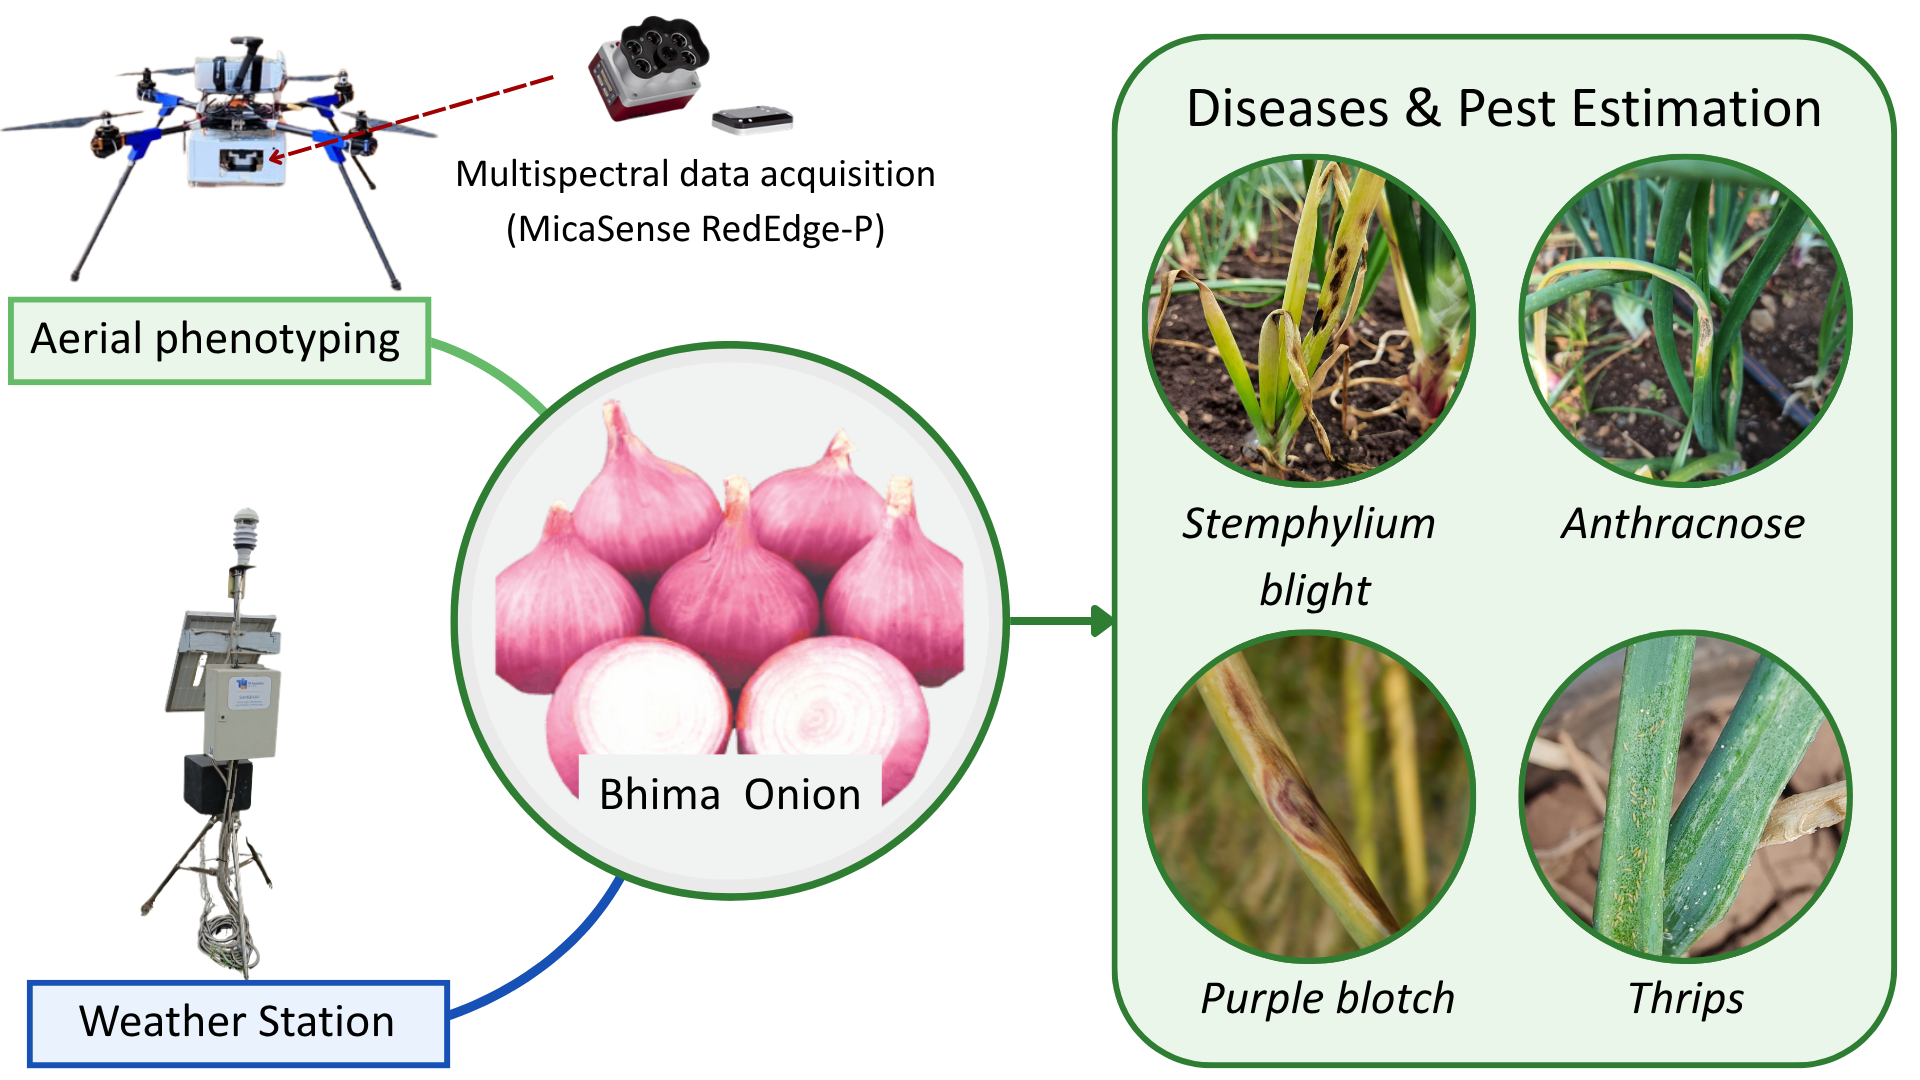
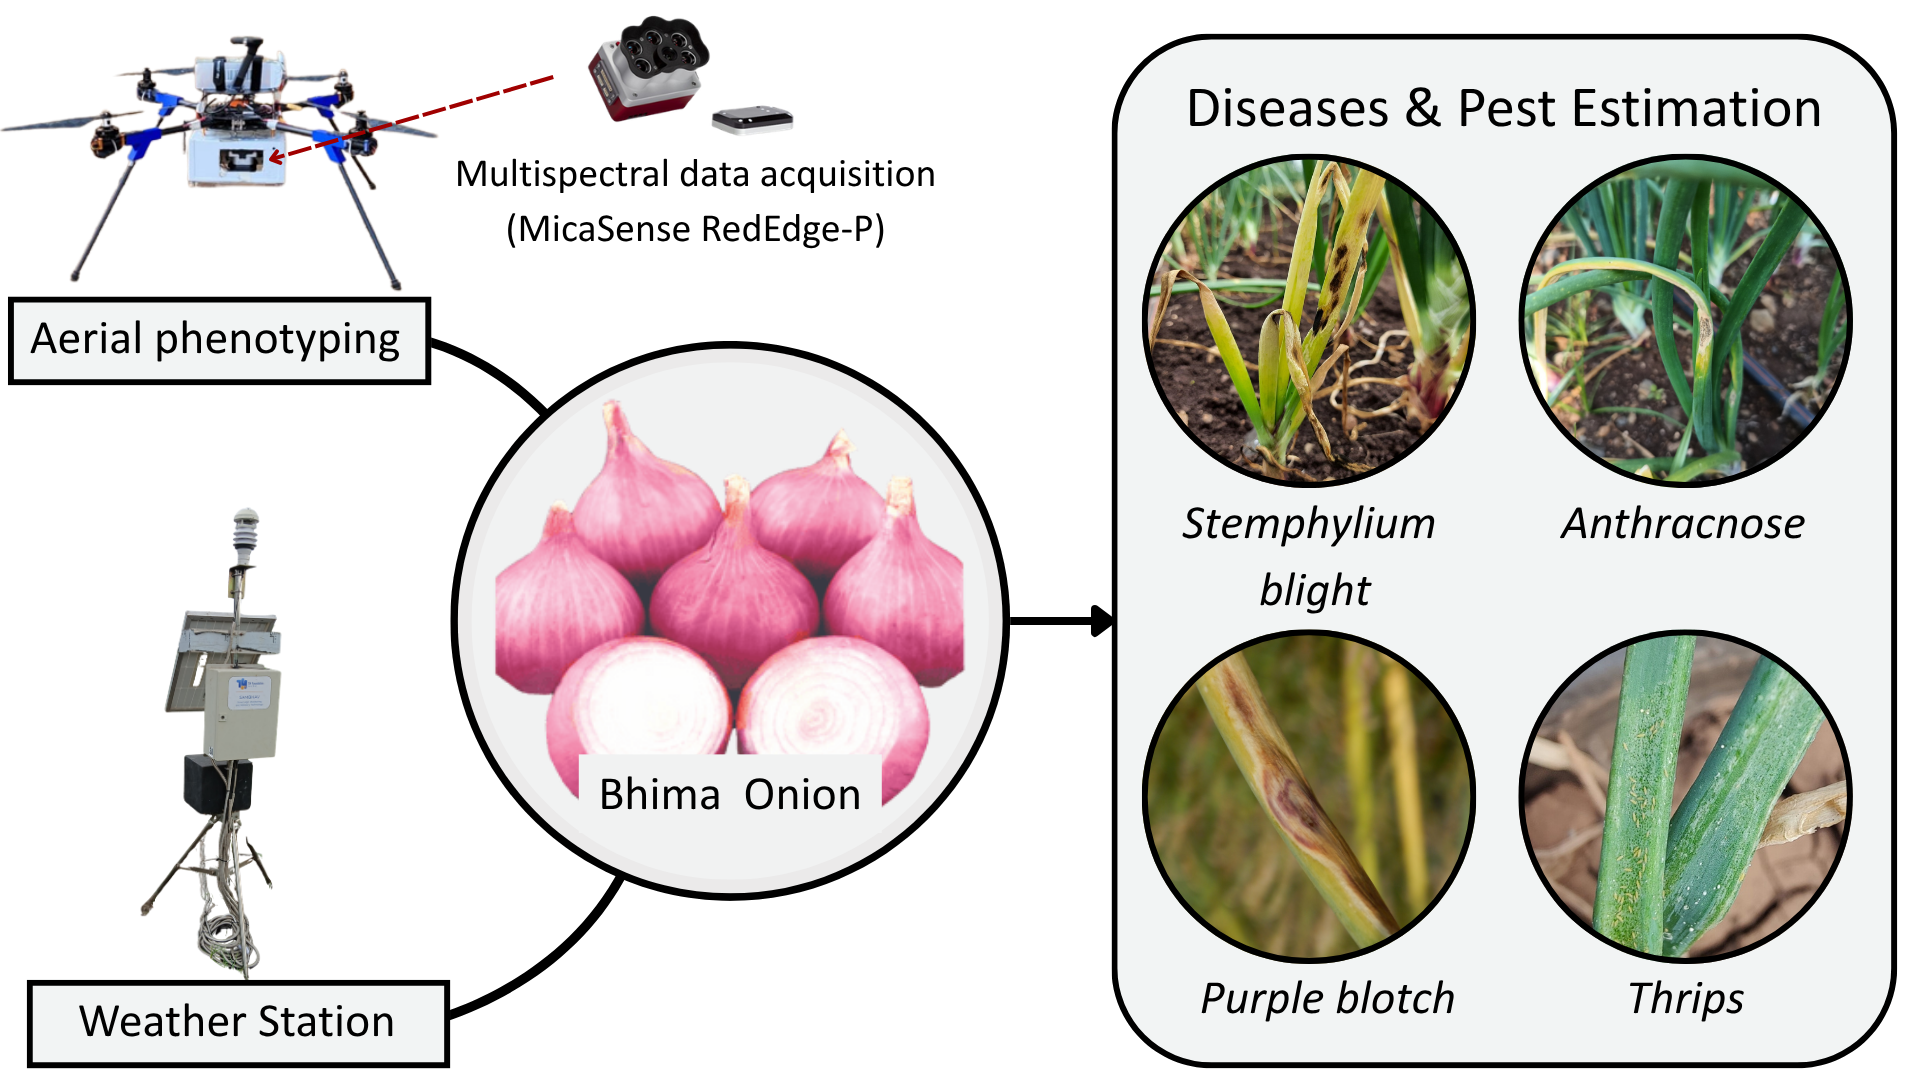
style: changing images

diff --git a/content/projects/coeoge/index.md b/content/projects/coeoge/index.md
@@ -26,7 +26,7 @@ tech_stack:
 
 links:
   - type: pdf
-    url: "/uploads/multispectral-leak-detection-paper.pdf"
+    url: "uploads/multispectral-leak-detection-paper.pdf"
     label: "Paper"
 
   - type: site
@@ -34,7 +34,7 @@ links:
     label: "Website"
 
   - type: pdf
-    url: "/uploads/multispectral-leak-detection-poster.pdf"
+    url: "uploads/multispectral-leak-detection-poster.pdf"
     label: "Poster"
 
 featured: true

diff --git a/content/projects/sna/index.md b/content/projects/sna/index.md
@@ -17,6 +17,9 @@ tags:
 tech_stack:
   - Python
   - ROS
+  - Visual-Inertial Fusion
+  - ArduPilot/ MAVLink
+  - Real-Time Autonomous Navigation
 
 links:
   - type: pdf
